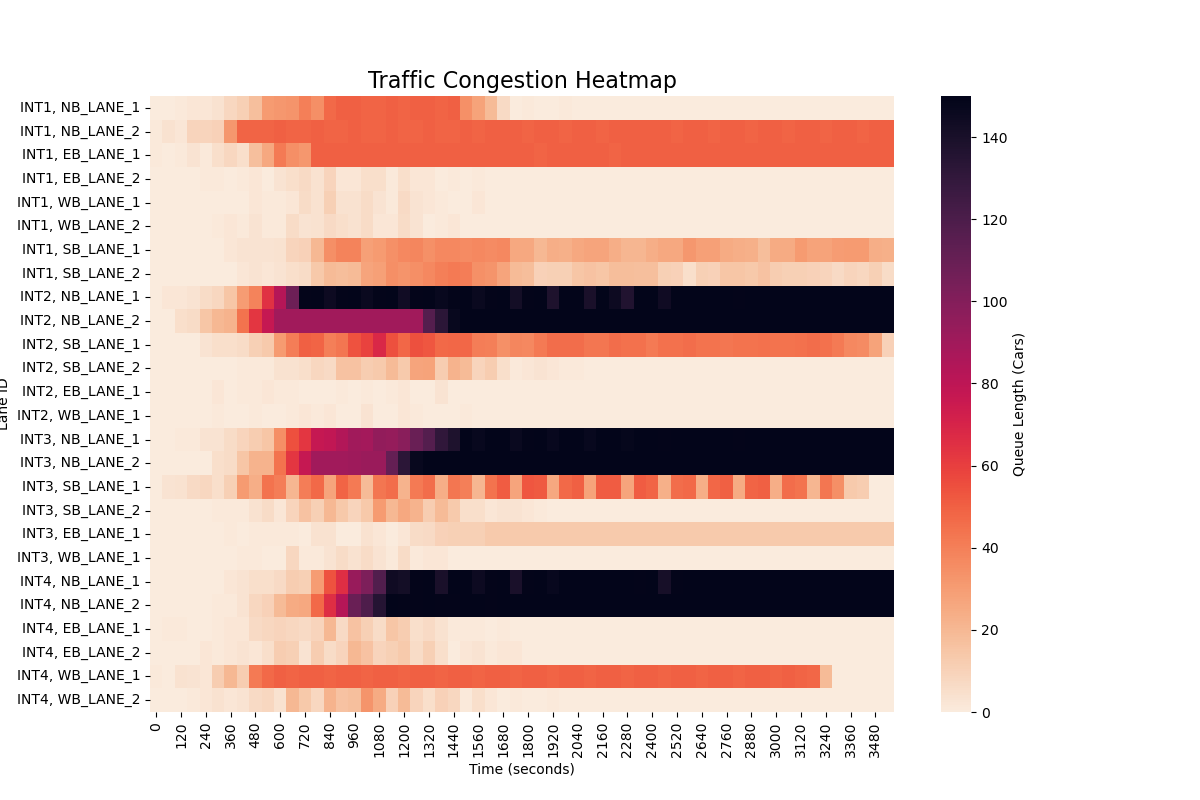
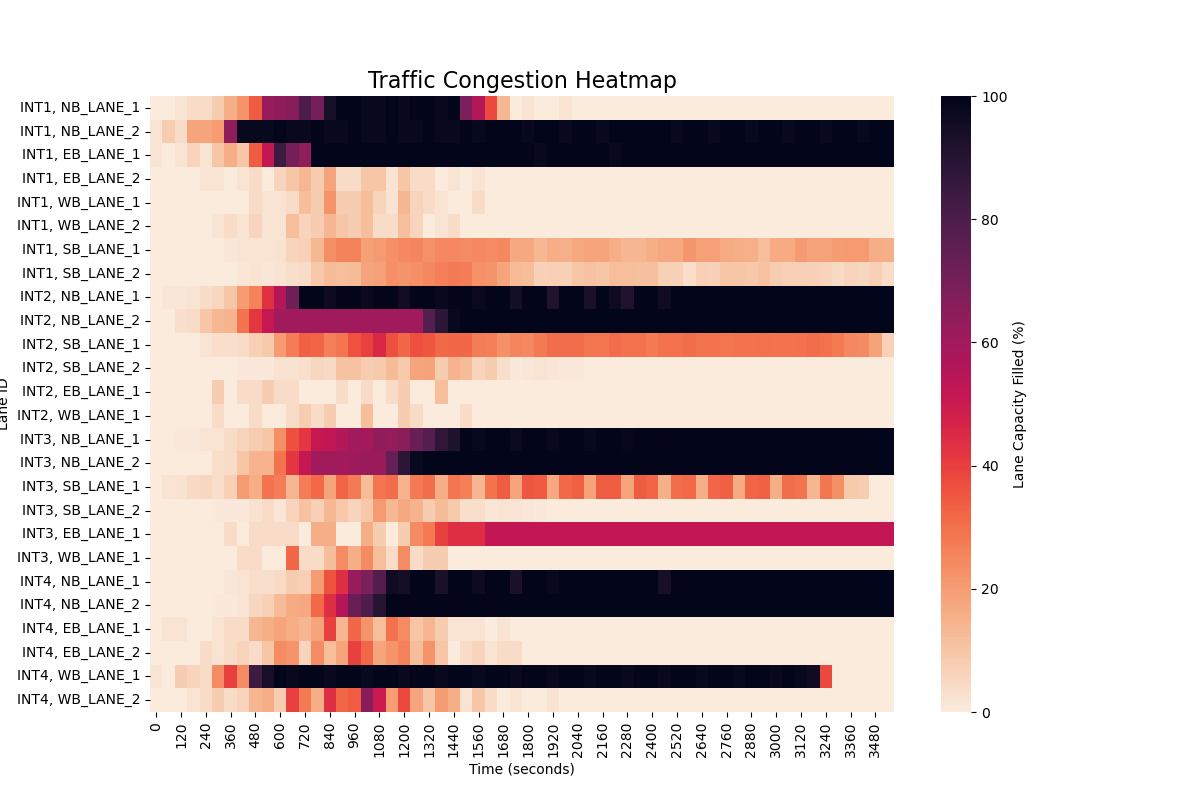
Finished ReadMe to summarise the project. changed the heatmaps to be percentage based rather than pure number count based

diff --git a/visuals/Traffic_Visuals.py b/visuals/Traffic_Visuals.py
@@ -4,6 +4,7 @@ import pandas as pd
 import numpy as np
 import sys
 import os
+
 current_dir = os.path.dirname(os.path.abspath(__file__))
 project_root = os.path.dirname(current_dir)
 src_path = os.path.join(project_root, 'src')
@@ -23,7 +24,7 @@ from optimal_schedule import optimal_schedule
 _i, _v, _vr, default_sim_log, default_cars_exited = simulation(default_light_schedule, vehicles, routes, neighbour_map) 
 _i, _v, _vr, optimised_sim_log, optimsied_cars_exited = simulation(optimal_schedule, vehicles, routes, neighbour_map) 
 
-def plot_results(sim_log, save_name):
+def plot_results(sim_log, save_name, intersections_data):
     # Graph total number of cars exited
     plt.figure(figsize=(10, 5))
     plt.plot(sim_log["TIME_STEP"], sim_log["CARS_EXITED"], color="r", linewidth=3)
@@ -32,10 +33,19 @@ def plot_results(sim_log, save_name):
     plt.ylabel("Total Cars Exited")
     plt.grid(True, linestyle="-")
     plt.savefig(f"{save_name}_cars_exited.png")
-    plt.show()
 
-    # Convert Lane density data to spreadsheet for heatmap plot
-    df = pd.DataFrame(sim_log["LANE_COUNTS"])
+    # Convert Lane density data to percentages for heatmap plot
+    raw_counts = sim_log["LANE_COUNTS"]
+    percentage_data = {}
+    for (i, j), counts in raw_counts.items():
+        # Get the physical capacity of this specific lane
+        capacity = len(intersections_data[i]["LANES"][j]["CELLS"])
+        # Avoid division by zero just in case a lane has 0 capacity
+        if capacity > 0:
+            percentage_data[(i, j)] = [(count / capacity) * 100 for count in counts]
+        else:
+            percentage_data[(i, j)] = [0 for _ in counts]
+    df = pd.DataFrame(percentage_data)
     
     # Add time column index
     df.index = sim_log["TIME_STEP"]
@@ -43,17 +53,16 @@ def plot_results(sim_log, save_name):
     # Transpose it so Lanes are on the Y-axis and Time is on X-axis
     df = df.transpose()
     
-    # Rename the tuple keys from (0,1) to strings "Int1, NB_LANE_1" etc.
+    # Rename the tuple keys from (0,1) to strings "INT1, NB_LANE_1" etc.
     df.index = [f"{i}, {j}" for (i, j) in df.index]
 
     # Plot the heatmap of lane density per time step
     plt.figure(figsize=(12, 8))
-    sns.heatmap(df, cmap="rocket_r", cbar_kws={'label': 'Queue Length (Cars)'})
+    sns.heatmap(df, cmap="rocket_r", vmin=0, vmax=100, cbar_kws={'label': 'Lane Capacity Filled (%)'})
     plt.title("Traffic Congestion Heatmap", fontsize=16)
     plt.xlabel("Time (seconds)")
     plt.ylabel("Lane ID")
     plt.savefig(f"{save_name}_heat_map.png")
-    plt.show(sim_log)
 
-plot_results(default_sim_log, "default_schedule")
-plot_results(optimised_sim_log , "optimised_schedule")
+plot_results(default_sim_log, "default_schedule", intersections)
+plot_results(optimised_sim_log , "optimised_schedule", intersections)

diff --git a/optimisation/Phase-Model_Traffic_Optimisation .py b/optimisation/Phase-Model_Traffic_Optimisation .py
@@ -75,7 +75,7 @@ for i, group in intersection_groups.items():
             # For most of simulation: exactly 1 phase must be on
             BMP.addConstr(gp.quicksum(X[p, t] for p in group) == 1)
         else:
-            # For final 90 seconds: at most 1 phase (can be all red)
+            # For final 90 seconds: at most 1 phase can be all red
             BMP.addConstr(gp.quicksum(X[p, t] for p in group) <= 1)
         
 # Lights cannot be green longer than max_green seconds 
@@ -136,7 +136,7 @@ def Callback(model, where):
         model.cbLazy(Theta <= current_score + 50 * dist_expr)
         
         # Congestion cuts
-        # If a lane hits 95% capacity at any point in the simulation,
+        # If a lane hits 75% capacity at any point in the simulation,
         # force a higher minimum green-time percentage for that lane.             
         for (i,j) in optimised_light_schedule:
             congested_phase = lane_to_phase[(i,j)]

diff --git a/src/Traffic_Generation.py b/src/Traffic_Generation.py
@@ -22,7 +22,6 @@ if sum(exit_weights_check.values()) != len(exit_weights_check):
     raise ValueError("Values in exit_lane_weights donot sum to 1\n"\
                       "\t\t\tSee above for Lanes and their summations")
 
-
 def vehicle_generation(entry_lanes, exit_lanes):
     entry_lane_dist = [entry_lanes[i]
                       for i in entry_lanes]

diff --git a/README.md b/README.md
@@ -1,24 +1,71 @@
-# **Traffic-Simulation**
+# **Traffic Flow Simulation & Optimisation**
 
 ## **WIP**
 
-A discrete time traffic optimisation framework utilising Logic-Based Benders Decomposition. Integrates a Gurobi Master Problem for traffic light schedule generation with a custom simulation Subproblem, using iterative callbacks to converge on optimal traffic light schedule.
+A discrete time traffic optimisation framework utilising Logic-Based Benders' Decomposition. Integrates a Gurobi Master Problem for traffic light schedule generation with a custom simulation Subproblem, using iterative callbacks to find an optimal traffic light schedule.
 
 ### **Problem Description:**
+The goal of this project is to build a "soft digital twin" of a traffic corridor and use mathematical optimisation to find a better traffic light schedule than a standard, static alternating pattern.
+
+The problem is modeled around a specific gridlock scenario with the following parameters:
+
+- The Network: 3 cross-road intersections (INT1, INT2 and INT3) and 1 T-junction (INT4), all connected via a main arterial road (INT1 connects to INT2 connects to INT3 connects to INT4).
+- The Time Horizon: A 1-hour continuous simulation (3,600 discrete seconds).
+- The Demand: 5,000 vehicles spawn into the network over the hour.
+- The Gridlock: To stress-test the network, vehicle spawn rates are intentionally asymmetric. The majority of the traffic is funneled through only a couple of intersection lanes, which generates a severe gridlock across the map.
+- The Baseline: A default static alternating light schedule (e.g., 45s ON / 45s OFF, and 30s ON / 30s OFF) struggles to handle the uneven demand, generating a total network throughput of only 2,845 cars.
+
+The Objective: Formulate this environment as a Mixed-Integer Programming (MIP) problem to find a custom schedule that breaks the gridlock and increases vehicle throughput compared to the baseline.
 
 ### **Simulation:**
+To test and score the traffic light schedules, I built a custom Stochastic Cellular Automata engine in Python to act as the environment's "Digital Twin".
+
+The simulation physically tracks individual vehicles across the network using the following logic:
+
+- Discrete Grid & Time: The road network is divided into individual cells, and the simulation steps forward second-by-second for the full 3,600-second horizon.
+- State-Based Movement: Vehicles traverse the grid using strict cellular automata rules. During each 1-second step, a car checks the state of the cell directly ahead. It advances if the next cell is unoccupied or waits if blocked by a red phase or another vehicle. This finite-capacity design ensures that bottlenecks naturally cause cascading queues across the entire network.
+- Merging: If a vehicle needs to merge to reach its destination, it checks the adjacent cell. If unoccupied, it shifts over; if blocked, it proceeds forward. If a car reaches the front of its lane and still needs to merge, it halts and waits for an opening - escalating the grid-lock.
+- Stochastic Spawning: Rather than feeding a steady, manageable stream of traffic, vehicle arrival times are modeled using a clipped Normal distribution ($\mu = 15$ mins, $\sigma = 5$ mins). This forces the majority of the 5,000 vehicles to spawn in a massive, highly concentrated "rush hour" wave early in the simulation. This intentionally overloads the network's physical capacity, stress-testing the optimised schedule's ability to clear a severe backlog before the 1-hour limit is reached.
+- The Evaluator: The simulation serves as the "Subproblem" or scoring mechanism. You feed it a specific traffic light schedule, and it runs all 5,000 cars through the grid physics to output a final score: the exact number of cars that successfully exited the map.
 
 ### **Optimisation:**
+The core optimisation engine utilises a Logic-Based Benders Decomposition (LBBD) architecture to integrate a Gurobi mathematical solver directly with the stochastic traffic simulation.
+
+**Mathematical Formulation (Overview):**
+The Master Problem is formulated as a Mixed-Integer Linear Program (MILP) which is responsible for constructing the traffic light schedule, with over 32,400 binary decision variables representing the state of every traffic phase at every second. 
+
+The solver navigates the following core logical constraints:
+
+- Incompatibility Constraints: Ensures mutually exclusive traffic movements (e.g., at Intersection 1, North-South traffic cannot have a green light while East-West traffic is moving).
+- Continuous Operation: Ensures that exactly 1 phase must be active at all times at each intersection for the majority of the simulation. The last 90 seconds are relaxed meaning that both phases can be set to "off" to help with finding feasible schedules.
+- Phase Duration Limits: Ensures every green light meets a minimum safe duration (20 seconds) and does not exceed a maximum limit (90 seconds).
+- End-of-Simulation Boundary: Prevents a phase from turning green near the very end of the simulation if there is not enough time remaining to physically satisfy the minimum 20-second green light duration.
+
+**Lazy Constraints:** 
+- Optimiality cut (Hamming Distance): When the simulation evaluates a schedule as poor, the callback applies a Hamming distance cut to the Master Problem. This restricts the solver's objective bound, mathematically forcing it to explore significantly different binary sequences rather than making minor adjustments to a failed schedule.
+- Feasiblity cut (Congestion Feedback): The callback actively monitors lane capacities during the simulation. If a lane exceeds 75% capacity, it identifies a severe bottleneck and dynamically injects a feasibility cut. This forces the solver to increase the minimum green time for that specific phase by 2.5% in all future iterations, ensuring the model actively adapts to clear the congestion.
 
 ### **Results:**
+The custom solver successfully generated a schedule that noticeably improves network throughput over the static baseline.
+
+With the default schedule (fixed 45s/30s rotations), the network struggles to handle the asymmetric rush-hour demand. Severe bottlenecks form and quickly spill backward, locking up the grid and restricting the final throughput to just 2,845 vehicles out of the 5,000 spawned.
+
+By using the congestion feedback from the simulation callbacks, the optimisation engine learned to reallocate green time to the heaviest bottlenecks. This prevented the upstream spillback and kept the network flowing, resulting in a final throughput of 3,187 vehicles. This is a 12% increase over the baseline, clearing an extra 342 cars within the exact same 1-hour limit.
+
+**Early Termination (Speed vs. Optimality):*** Rather than running the solver for days to prove a global mathematical optimum, the engine is configured to prioritize computational efficiency. The callback is set to automatically terminate the run the moment it evaluates any schedule that improves throughput by at least 10% over the baseline (2845 cars). The 3,187 score (+12%) triggered this early stopping condition, delivering a highly effective schedule in a fraction of the time.
+
+The visualisations below compare the two runs, showing the reduction in localised gridlock (Heatmaps) and the improved exit rate over time (Throughput).
 
 #### Default Schedule:
 ![Default Heatmap](visuals/default_schedule_heat_map.png)
 ![Default Throughput](visuals/default_schedule_cars_exited.png)
 
 #### Optimal Schedule (10% increase in throughput):
-![Optimized Heatmap](visuals/optimised_schedule_heat_map.png)
-![Optimized Throughput](visuals/optimised_schedule_cars_exited.png)
+![Optimised Heatmap](visuals/optimised_schedule_heat_map.png)
+![Optimised Throughput](visuals/optimised_schedule_cars_exited.png)
+
+### Conclusion:
+This project demonstrates how mathematical optimisation can be used to solve infrastructure challenges that standard timing patterns cannot. The framework successfully navigated the asymmetric demand and high-density surges that caused the baseline gridlock. By integrating a Gurobi Master Problem with a simulation Subproblem, the system identified a schedule that increased network throughput by 12%, effectively breaking the gridlock and proving the value of custom, logic-based signal timing in complex urban environments.
 
 ### **TO-DO:**
 * find better solutions
